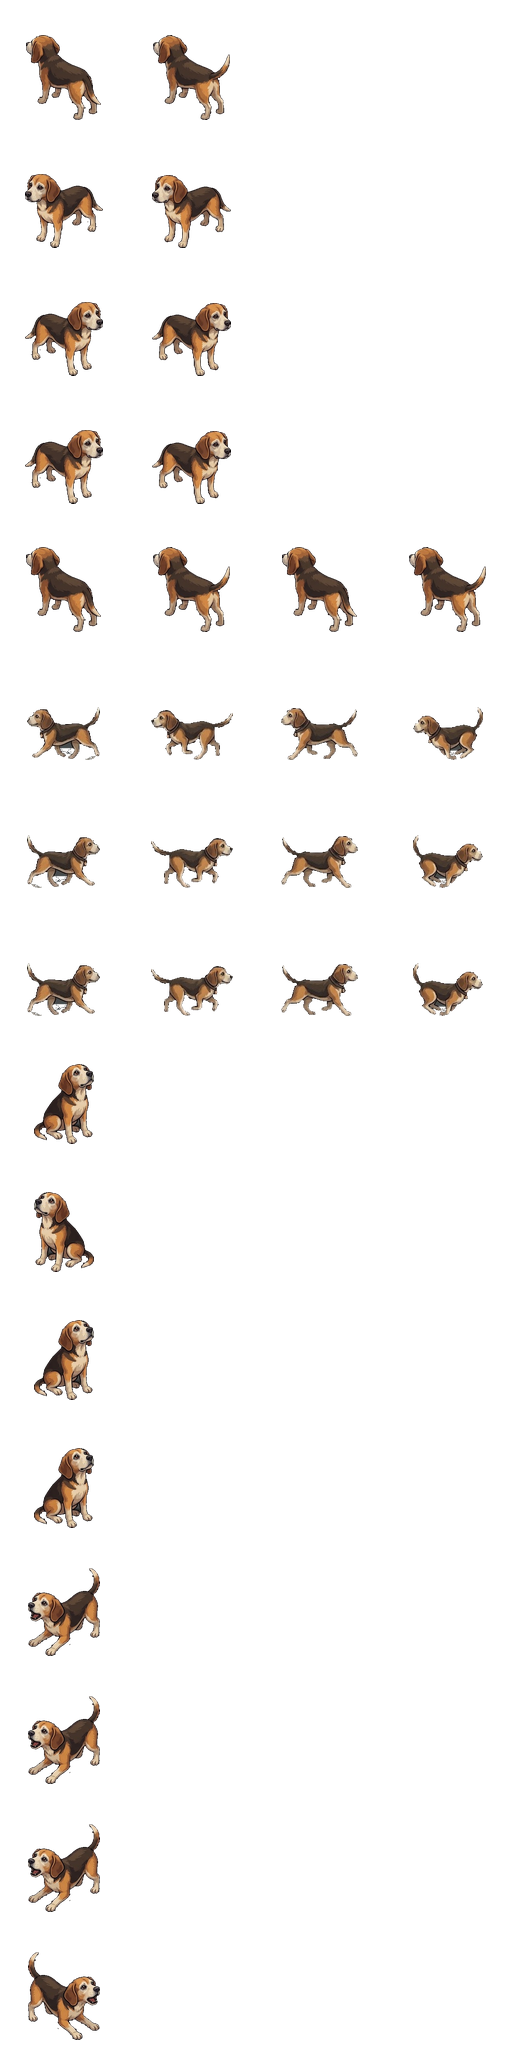
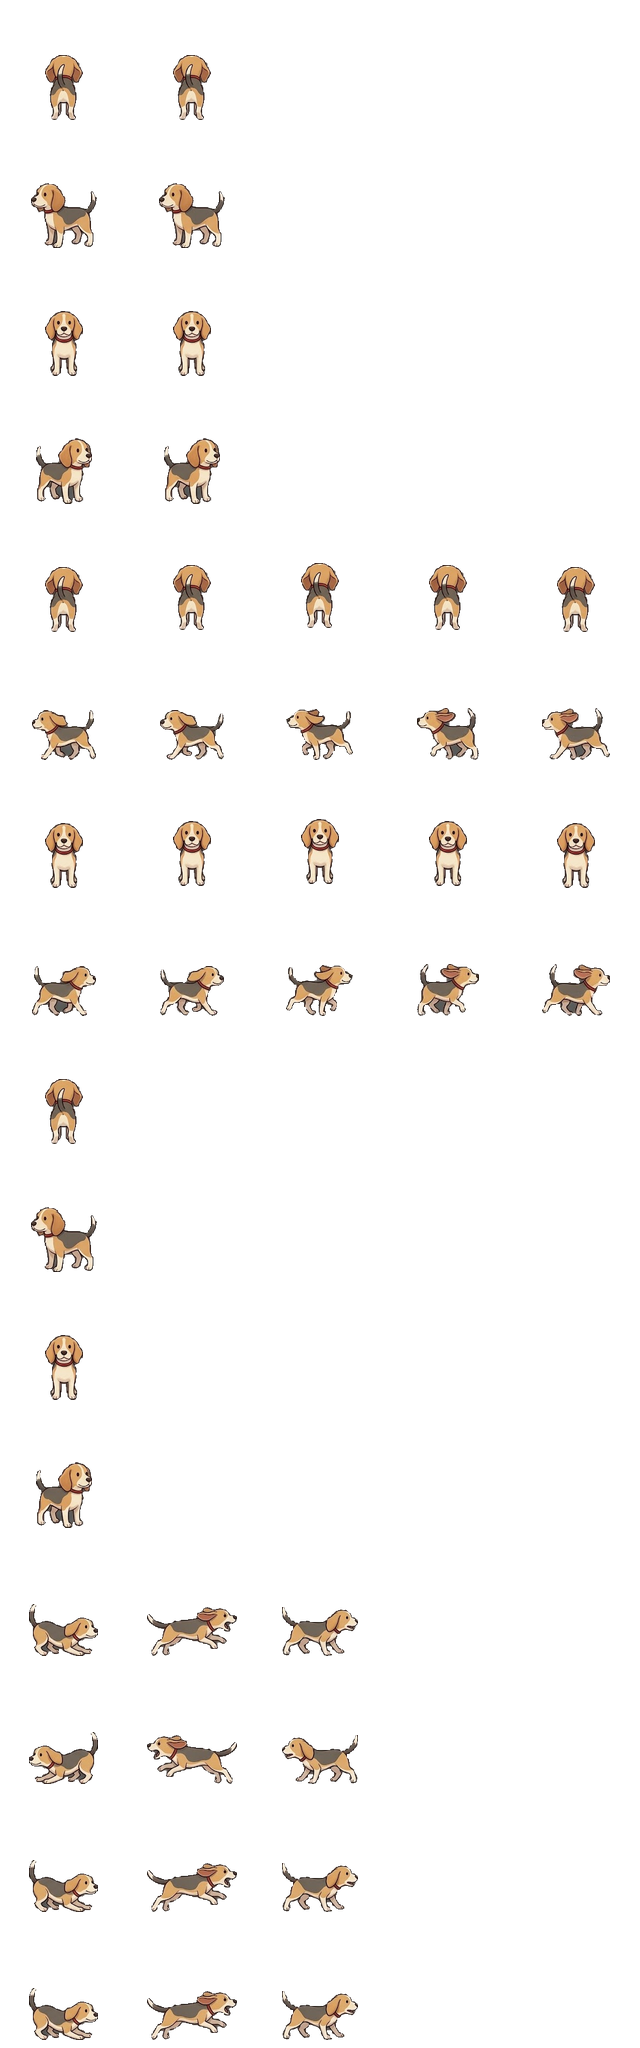
Chad and Evey from the owner's new character sheet
- art_src/painted/sheet_v2.jpg: turnarounds, Chad's 7-frame walk and
  cutlass swing, Evey's 5-frame trot and bite (red collar, white tail tip)
- tools/painted_sheets.py now reads named regions of one sheet, scales
  each group to the same character size, and adds a step bob for walking
  towards or away from the camera until those frames are drawn; the old
  4x2 pose and cycle cutters are gone (the earlier drafts stay in art_src)
- Chad: walk in all directions, a cutlass swing per direction, idle per
  direction; Evey: trot, bite, idle and sit per direction
- Docs: what this sheet covers and what to draw next

Claude-Session: https://claude.ai/code/session_01NxkNS8Xn8Aik2ZkHhgLkjK

diff --git a/projects/pixel-game/tools/painted_sheets.py b/projects/pixel-game/tools/painted_sheets.py
@@ -1,12 +1,11 @@
-"""Painted character sheets (Chad and Evey, option under review): cuts the 4x2 pose sheets in
-art_src/painted/ (flat grey background, outlined figures) into transparent poses and packs them
-into game sheets with 128 px frames, adding their layouts to assets/characters/sheets.json.
+"""Painted character sheets (Chad and Evey, option under review): cuts the figures out of the
+owner's sheet in art_src/painted/ (flat grey background, outlined figures) and packs them into
+game sheets with 128 px frames, adding their layouts to assets/characters/sheets.json.
 
     uv run --with pillow --with numpy python -I tools/painted_sheets.py
 
-Pose sheet layout: row 1 = facing camera, 3/4 view, back, back 3/4; row 2 = walk step 1,
-walk step 2, action 1, action 2 (see docs/04-assets.md). cycles.jpg holds side-on motion cycles
-(Chad's run, Evey's trot), used for walking left and right.
+New sheets made with docs/15-character-art-prompts.md: add their rectangles to REGIONS and
+their frames to LAYOUTS.
 """
 
 import json
@@ -24,63 +23,91 @@ FRAME = 128
 FOOT = 8  # feet sit this many pixels above the bottom of a frame
 DIRS = ["up", "left", "down", "right"]
 
-# Height of a pose -> height in the frame (keeps the cast at the same size as the LPC sheets).
-SCALES = {"chad": 110 / 227, "evey": 0.39}
+# The current source: one sheet with Chad on the left and Evey on the right, in named
+# rectangles (x0, x1, y0, y1) of figures read left to right (art_src/painted/sheet_v2.jpg).
+# Earlier drafts (chad_poses.jpg, evey_poses.jpg, cycles.jpg) are kept for reference only.
+SOURCE_SHEET = "sheet_v2.jpg"
+REGIONS = {
+    "chad_turn": (0, 520, 0, 225),  # front, 3/4, side (right), back 3/4, back
+    "chad_walk": (0, 520, 225, 390),  # 7-frame walk, facing right
+    "chad_swing": (0, 520, 390, 572),  # cutlass: front, 3/4 right, back 3/4, back
+    "evey_turn": (520, 1024, 0, 225),  # front, side (right), 3/4, 3/4 left, back
+    "evey_trot": (520, 1024, 225, 430),  # 5-frame trot, facing right
+    "evey_bite": (520, 1024, 430, 572),  # crouch, lunge, bark, facing right
+}
+# The generator drew each group at its own size; these bring every group to the same character
+# size in the game (Chad about 110 px tall in a 128 px frame).
+SCALES = {
+    "chad_turn": 110 / 208,
+    "chad_walk": 106 / 135,
+    "chad_swing": 110 / 152,
+    "evey_turn": 0.6,
+    "evey_trot": 0.7,
+    "evey_bite": 0.65,
+}
+# Up-and-down step bob (pixels) for walking towards or away from the camera, which has no
+# drawn frames yet.
+BOB = [0, -2, -4, -2, 0, -2, -4]
 
-# Motion cycles from art_src/painted/cycles.jpg: Chad's run on top, Evey's trot below. The
-# cycle sheet is drawn smaller than the pose sheets, so it has its own scale (matched by eye
-# to the same height in the game). Frames are referred to as "cycle:<n>" in LAYOUTS.
-CYCLES_SOURCE = "cycles.jpg"
-CYCLE_BANDS = {"chad": (0, 245), "evey": (245, 400)}
-CYCLE_SCALES = {"chad": 110 / 165, "evey": 0.39 * 200 / 132}
 
-# For each animation: rows (one per direction, or one) of [pose, mirrored] frames.
+def _bob(ref: str, frames: int) -> list:
+    return [(ref, False, BOB[i % len(BOB)]) for i in range(frames)]
+
+
+def _row(group: str, count: int, mirror: bool) -> list:
+    return [(f"{group}:{i}", mirror) for i in range(count)]
+
+
+# For each animation: rows (one per direction, or one "all") of frames: (figure, mirrored[, dy]).
 LAYOUTS = {
     "chad": {
         "idle": {
-            "up": [(2, False), (3, False)],
-            "left": [(1, False), (1, False)],
-            "down": [(0, False), (0, False)],
-            "right": [(1, True), (1, True)],
+            "up": [("turn:4", False)] * 2,
+            "left": [("turn:2", True)] * 2,
+            "down": [("turn:0", False)] * 2,
+            "right": [("turn:2", False)] * 2,
         },
         "walk": {
-            "up": [(2, False), (3, False), (2, False), (3, False)],
-            "left": [("cycle:0", True), ("cycle:1", True), ("cycle:2", True), ("cycle:3", True)],
-            "down": [(0, False), (1, False), (0, False), (1, False)],
-            "right": [("cycle:0", False), ("cycle:1", False), ("cycle:2", False), ("cycle:3", False)],
+            "up": _bob("turn:4", 7),
+            "left": _row("walk", 7, True),
+            "down": _bob("turn:0", 7),
+            "right": _row("walk", 7, False),
         },
-        "slash": {"all": [(6, False), (7, False)]},
-        "hurt": {"all": [(6, False)]},
+        "slash": {
+            "up": [("swing:3", False), ("swing:2", False)],
+            "left": [("swing:1", True), ("swing:1", True)],
+            "down": [("swing:0", False), ("swing:1", False)],
+            "right": [("swing:1", False), ("swing:1", False)],
+        },
+        "hurt": {"all": [("turn:0", False)]},
     },
     "evey": {
         "idle": {
-            "up": [(2, False), (3, False)],
-            "left": [(0, True), (1, True)],
-            "down": [(0, False), (1, False)],
-            "right": [(0, False), (1, False)],
+            "up": [("turn:4", False)] * 2,
+            "left": [("turn:3", False)] * 2,
+            "down": [("turn:0", False)] * 2,
+            "right": [("turn:1", False)] * 2,
         },
         "walk": {
-            "up": [(2, False), (3, False), (2, False), (3, False)],
-            "left": [("cycle:0", True), ("cycle:1", True), ("cycle:2", True), ("cycle:3", True)],
-            "down": [("cycle:0", False), ("cycle:1", False), ("cycle:2", False), ("cycle:3", False)],
-            "right": [("cycle:0", False), ("cycle:1", False), ("cycle:2", False), ("cycle:3", False)],
+            "up": _bob("turn:4", 5),
+            "left": _row("trot", 5, True),
+            "down": _bob("turn:0", 5),
+            "right": _row("trot", 5, False),
         },
         "sit": {
-            "up": [(6, False)],
-            "left": [(6, True)],
-            "down": [(6, False)],
-            "right": [(6, False)],
+            "up": [("turn:4", False)],
+            "left": [("turn:3", False)],
+            "down": [("turn:0", False)],
+            "right": [("turn:1", False)],
         },
         "bite": {
-            "up": [(7, False)],
-            "left": [(7, False)],
-            "down": [(7, False)],
-            "right": [(7, True)],
+            "up": _row("bite", 3, False),
+            "left": _row("bite", 3, True),
+            "down": _row("bite", 3, False),
+            "right": _row("bite", 3, False),
         },
     },
 }
-
-
 
 
 def background_mask(rgb: np.ndarray) -> np.ndarray:
@@ -137,94 +164,76 @@ def _components(mask: np.ndarray) -> tuple[np.ndarray, list]:
     return label, found
 
 
-def cut_cycles(path: Path, bands: dict, clear_low: tuple = ()) -> dict:
-    """Animation strips laid out left to right in horizontal bands (e.g. a run cycle on top, a
-    trot below): {band: [frames left to right]}. Pieces close together (a head, a strap) are
-    kept with their figure; small marks (frame numbers, arrows) are dropped. For bands in
-    `clear_low`, shadow-grey pixels in the bottom quarter of each frame are cleared too (painted
-    shadow trapped between legs, which the flood fill can't reach)."""
+def cut_regions(path: Path, regions: dict, dilate: int = 5, clear_low: tuple = ()) -> dict:
+    """Figures laid out in named rectangles of one sheet, {name: (x0, x1, y0, y1)}, each read
+    left to right: {name: [frames]}. A figure belongs to the rectangle holding its centre."""
     rgb = np.asarray(Image.open(path).convert("RGB")).astype(int)
     solid = ~background_mask(rgb)
     solid = np.asarray(Image.fromarray((solid * 255).astype(np.uint8)).filter(ImageFilter.MinFilter(3))) > 0
-    near = np.asarray(Image.fromarray((solid * 255).astype(np.uint8)).filter(ImageFilter.MaxFilter(9))) > 0
+    near = np.asarray(Image.fromarray((solid * 255).astype(np.uint8)).filter(ImageFilter.MaxFilter(dilate))) > 0
     label, found = _components(near)
-    strips = {}
-    for band, (y0, y1) in bands.items():
+    groups = {}
+    for name, (x0, x1, y0, y1) in regions.items():
         figures = sorted(
-            (c for c in found if c[1] > 4000 and y0 <= (c[2] + c[3]) // 2 < y1), key=lambda c: c[4]
+            (
+                c
+                for c in found
+                if c[1] > 1500 and x0 <= (c[4] + c[5]) // 2 < x1 and y0 <= (c[2] + c[3]) // 2 < y1
+            ),
+            key=lambda c: c[4],
         )
-        frames = []
-        for n, _size, top, bottom, left, right in figures:
-            keep = (label[top : bottom + 1, left : right + 1] == n) & solid[top : bottom + 1, left : right + 1]
-            # Drop small loose marks (arrows, speed lines) that sit near the figure.
-            parts, pieces = _components(keep)
-            for m, size, *_ in pieces:
-                if size < 400:
-                    keep[parts == m] = False
-            if band in clear_low:
-                patch = rgb[top : bottom + 1, left : right + 1]
-                pr, pg, pb = patch[..., 0], patch[..., 1], patch[..., 2]
-                shadow = (np.abs(pr - pg) < 12) & (np.abs(pg - pb) < 12) & (patch.max(axis=2) < 80)
-                low = np.zeros_like(keep)
-                low[int(keep.shape[0] * 0.75) :, :] = True
-                keep &= ~(shadow & low)
-            ys, xs = np.nonzero(keep)
-            box = (ys.min(), ys.max() + 1, xs.min(), xs.max() + 1)
-            rgba = np.dstack(
-                [rgb[top : bottom + 1, left : right + 1].astype(np.uint8), (keep * 255).astype(np.uint8)]
-            )[box[0] : box[1], box[2] : box[3]]
-            frames.append(Image.fromarray(rgba, "RGBA"))
-        strips[band] = frames
-    return strips
+        groups[name] = [_figure(rgb, solid, label, c, name in clear_low) for c in figures]
+    return groups
 
 
-def cut_poses(path: Path) -> list[Image.Image]:
-    """The eight figures of a 4x2 pose sheet, each cropped, on transparency."""
-    rgb = np.asarray(Image.open(path).convert("RGB")).astype(int)
-    alpha = np.where(background_mask(rgb), 0, 255).astype(np.uint8)
-    # Pull the cut edge in by a pixel so JPEG fringes don't show.
-    alpha = np.asarray(Image.fromarray(alpha).filter(ImageFilter.MinFilter(3)))
-    rgba = np.dstack([rgb.astype(np.uint8), alpha])
-    h, w = alpha.shape
-    cw, ch = w // 4, h // 2
-    poses = []
-    for i in range(8):
-        cx, cy = (i % 4) * cw, (i // 4) * ch
-        cell = rgba[cy : cy + ch, cx : cx + cw]
-        ys, xs = np.nonzero(cell[..., 3])
-        poses.append(Image.fromarray(cell[ys.min() : ys.max() + 1, xs.min() : xs.max() + 1], "RGBA"))
-    return poses
+def _figure(rgb, solid, label, component, clear_low: bool) -> Image.Image:
+    n, _size, top, bottom, left, right = component
+    keep = (label[top : bottom + 1, left : right + 1] == n) & solid[top : bottom + 1, left : right + 1]
+    parts, pieces = _components(keep)
+    for m, size, *_ in pieces:
+        if size < 300:
+            keep[parts == m] = False
+    if clear_low:
+        patch = rgb[top : bottom + 1, left : right + 1]
+        pr, pg, pb = patch[..., 0], patch[..., 1], patch[..., 2]
+        shadow = (np.abs(pr - pg) < 12) & (np.abs(pg - pb) < 12) & (patch.max(axis=2) < 80)
+        low = np.zeros_like(keep)
+        low[int(keep.shape[0] * 0.75) :, :] = True
+        keep &= ~(shadow & low)
+    ys, xs = np.nonzero(keep)
+    rgba = np.dstack(
+        [rgb[top : bottom + 1, left : right + 1].astype(np.uint8), (keep * 255).astype(np.uint8)]
+    )[ys.min() : ys.max() + 1, xs.min() : xs.max() + 1]
+    return Image.fromarray(rgba, "RGBA")
 
 
-def frame_of(pose: Image.Image, scale: float, mirror: bool) -> Image.Image:
+def frame_of(pose: Image.Image, scale: float, mirror: bool, dy: int = 0) -> Image.Image:
     size = (max(1, round(pose.width * scale)), max(1, round(pose.height * scale)))
     img = pose.resize(size, Image.LANCZOS)
     if mirror:
         img = ImageOps.mirror(img)
     cell = Image.new("RGBA", (FRAME, FRAME))
-    cell.alpha_composite(img, ((FRAME - img.width) // 2, FRAME - FOOT - img.height))
+    cell.alpha_composite(img, ((FRAME - img.width) // 2, FRAME - FOOT - img.height + dy))
     return cell
 
 
 def main() -> None:
     sheets_path = OUT / "sheets.json"
     sheets = json.loads(sheets_path.read_text())
-    cycles = cut_cycles(SOURCE / CYCLES_SOURCE, CYCLE_BANDS, clear_low=("evey",))
+    groups = cut_regions(SOURCE / SOURCE_SHEET, REGIONS, dilate=3)
     for name, layout in LAYOUTS.items():
-        poses = cut_poses(SOURCE / f"{name}_poses.jpg")
-
-        def cell(ref, mirror, name=name, poses=poses):
-            if isinstance(ref, str):
-                return frame_of(cycles[name][int(ref.split(":")[1])], CYCLE_SCALES[name], mirror)
-            return frame_of(poses[ref], SCALES[name], mirror)
-
         rows: list[list[Image.Image]] = []
         entry: dict = {"frame": FRAME, "smooth": True}
         for anim, spec in layout.items():
             order = DIRS if "all" not in spec else ["all"]
             entry[anim] = {"row": len(rows), "frames": len(spec[order[0]]), "rows": len(order)}
             for key in order:
-                rows.append([cell(p, m) for p, m in spec[key]])
+                row = []
+                for ref, mirror, *dy in spec[key]:
+                    group, index = ref.split(":")
+                    figure = groups[f"{name}_{group}"][int(index)]
+                    row.append(frame_of(figure, SCALES[f"{name}_{group}"], mirror, dy[0] if dy else 0))
+                rows.append(row)
         cols = max(len(r) for r in rows)
         sheet = Image.new("RGBA", (cols * FRAME, len(rows) * FRAME))
         for y, row in enumerate(rows):

diff --git a/projects/pixel-game/docs/04-assets.md b/projects/pixel-game/docs/04-assets.md
@@ -38,7 +38,8 @@ Small icons: **square, transparent PNG, 128×128**, one object, no background.
 - [ ] Doner Dread (the rival)
 
 **Dogs**
-- [x] Evey (painted sheet in the game, subject to change; see [Art style](03-art-style.md))
+- [x] Evey (painted sheet in the game, subject to change; see [Art style](03-art-style.md);
+      still to come: front/back trot, idle, sit, see [the prompts](15-character-art-prompts.md))
 - [ ] Evey extra poses (sniff, dig, bark, run, carry, lying down tired), if she becomes
       [playable](13-playing-as-evey.md)
 - [ ] Brownie (top dog)
@@ -59,7 +60,8 @@ Small icons: **square, transparent PNG, 128×128**, one object, no background.
 - [ ] Callaloo Cauldron (currently a code-built 3D pot; keep 3D or paint it)
 
 **Hero**
-- [x] Chad (painted sheet in the game, subject to change; final look still to decide)
+- [x] Chad (painted sheet in the game, subject to change; still to come: front/back walk,
+      idle loops and more, see [the prompts](15-character-art-prompts.md))
 - [ ] Chad side poses (jump, fall, climb), if the [Orange Castle](12-side-quest-orange-castle.md)
       becomes a side-view stage
 

diff --git a/projects/pixel-game/docs/15-character-art-prompts.md b/projects/pixel-game/docs/15-character-art-prompts.md
@@ -4,6 +4,22 @@ Prompts for generating every animation and angle Chad and Evey need, in the pain
 owner's mockup and sheets (`art_src/painted/`), laid out so `tools/painted_sheets.py` can cut them
 into smooth in-game animation.
 
+## Status
+
+**In the game** (from `art_src/painted/sheet_v2.jpg`): turnarounds for both, Chad's 7-frame
+side walk and 4-frame cutlass swing, Evey's 5-frame side trot and 3-frame bite. That sheet
+settled Evey's look: **red collar, white tail tip** (change the description below if that's
+not right).
+
+**Still needed, in order:**
+
+1. Walking **toward** and **away from** the camera (Chad 8 frames each, Evey 8 each). Today
+   those directions slide the standing pose with a small bob.
+2. **Idle** loops (4 frames, all three directions) for both.
+3. Evey **sit** (2 frames, front and side); she uses her standing pose for now.
+4. Chad's swing **facing down and up** as full sequences (the sheet has one frame per angle).
+5. Then priorities 2 and 3 in the tables below.
+
 ## How the game uses the art
 
 - **Four directions:** facing the camera (down), back to the camera (up), and side (right).

diff --git a/projects/pixel-game/docs/03-art-style.md b/projects/pixel-game/docs/03-art-style.md
@@ -11,9 +11,10 @@
   concrete pastels, sea blue.
 - **Tilt-shift.** A soft blur at the top and bottom of the screen makes the town feel like a
   model.
-- **Chad and Evey: painted sheets (in the game now, subject to change).** Painted, outlined,
-  3/4-view characters (green jacket, backpack, cargo pants; Evey the tricolour beagle). Source
-  pose sheets are in `art_src/painted/`; `tools/painted_sheets.py` cuts them into game sheets
+- **Chad and Evey: painted sheets (in the game now, subject to change).** Clean, outlined
+  cartoon characters (olive jacket, backpack, cargo pants; Evey the tricolour beagle with a red
+  collar), from the owner's sheet `art_src/painted/sheet_v2.jpg` (earlier drafts are kept next
+  to it). `tools/painted_sheets.py` cuts it into game sheets
   (`assets/characters/chad_painted.png`, `evey_painted.png`). To go back to the pixel versions,
   set `"player": "chad"` and `"companion": "evey"` in `data/looks.json`.
 
